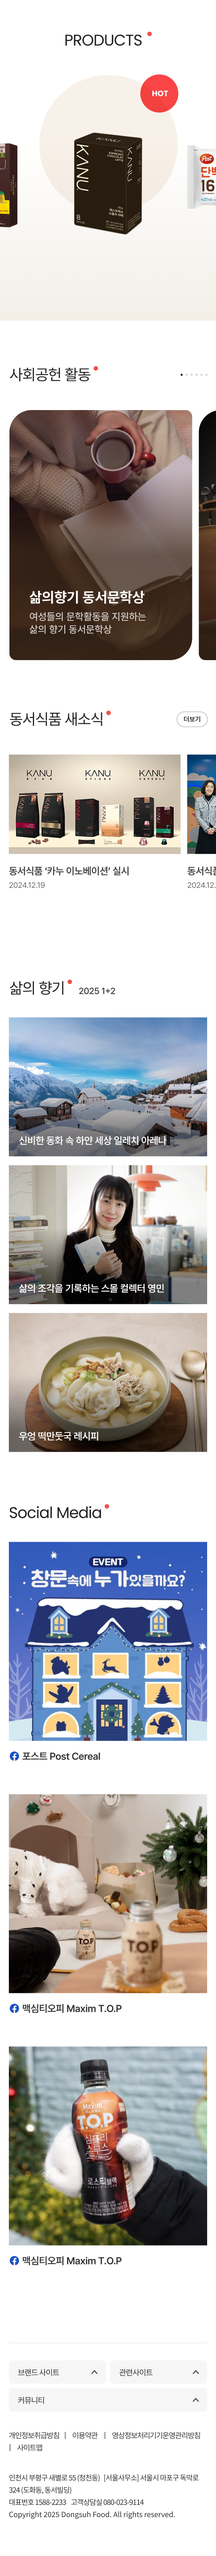
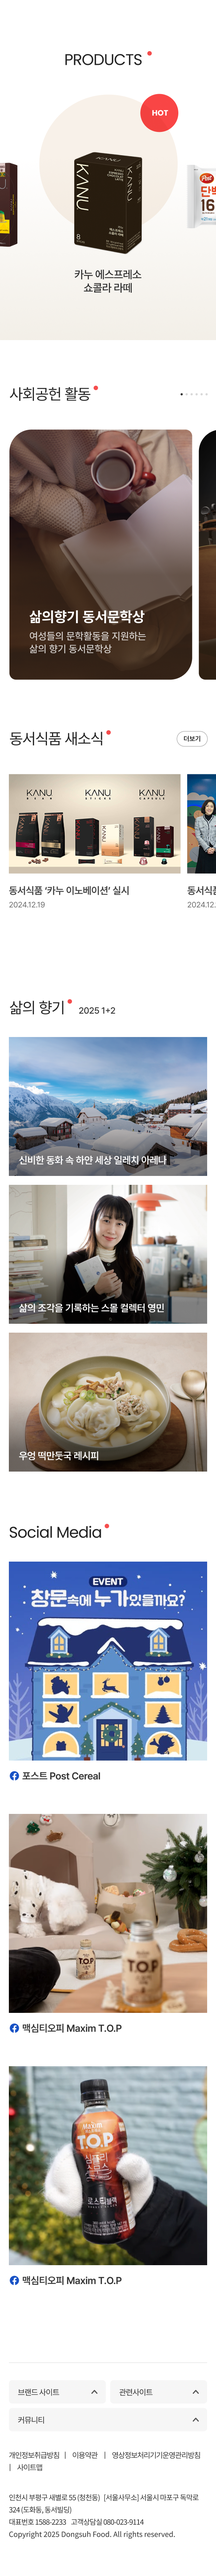
commit-0120-1

diff --git a/app/(dongsuh-2025)/dongsuh-draft-2025/page.tsx b/app/(dongsuh-2025)/dongsuh-draft-2025/page.tsx
@@ -8,21 +8,21 @@ export default function Home() {
         <div className="content-wrap">
 
           <div className="notice-banner">
-            본 디자인 시안은 세부 디자인, 인터액션 등이 완료되지 않은 중간 버전이며
-            시안 별 방향성 및 페이지 구성을 확인하기 위한 용도입니다.
+            본 디자인 시안은 세부 콘텐츠 디자인, 인터액션 등이 완료되지 않은 제안용도의 시안 입니다.<br />
+            홈 화면 중간의 제품소개 영역을 클릭하면 제품상세보기 화면으로 이동합니다.
           </div>
 
           <div className="content-block">
             <h3 className='block-title'>디자인 시안 공통 적용 사항</h3>
             <ul>
               <li>
-                <span>1. 웹접근성을 고려한 디자인 원칙 </span>
+                <span>1. 웹접근성을 고려한 디자인 준칙 적용</span>
               </li>
               <li>
                 <span>2. 반응형 구현을 고려한 레이아웃 디자인 </span>
               </li>
               <li>
-                <span>3. 부수적인 요소를 제외하고 간결한 Minimal 디자인 트렌드 반영 </span>
+                <span>3. 부수적인 그래픽 요소를 죄대한 배제하여 Minimal 디자인 트렌드 반영 </span>
               </li>
             </ul>
           </div>
@@ -31,17 +31,21 @@ export default function Home() {
             <h3 className='block-title'>Type-A</h3>
             <ul>
               <li>
-                <span>- 최근 트렌드인 Scroll Action 효과를 적용하여 동서식품 메세지를 강조</span>
+                <span>- 메가 트렌드인 Scroll Action 효과를 적용하여 동서식품 메세지를 강조</span>
               </li>
               <li>
-                <span>- Hero영역의 영상은 시즌별로 신규 제작되는 동서식품 CM 비디오를 업데이트하여 적용</span>
+                <span>- Hero영역의 영상은 시즌별로 신규 제작되는 동서식품 CM 비디오를 업데이트하여 적용. <br />
+                시즌감을 표현하면서 동서식품 브랜드이미지 강조 효과</span>
               </li>
               <li>
                 <span>- 삶의향기 매거진, SNS 콘텐츠 들을 배치하여 동서식품 관련 컨텐츠를 최대한 전달</span>
               </li>
             </ul>
-            <Link className='draft-link' href={"dongsuh-draft-2025/draft-a"} target="_blank">디자인시안 (Desktop 버전)</Link>
-            <Link className='draft-link' href={"dongsuh-draft-2025/draft-a-mo-frame"} target="_blank">디자인시안 (Mobile 버전)</Link>
+            <div className="link-wrap">
+              <Link className='draft-link' href={"dongsuh-draft-2025/draft-a"} target="_blank">디자인시안 (Desktop 버전)</Link>
+              <Link className='draft-link' href={"dongsuh-draft-2025/draft-a-mo-frame"} target="_blank">디자인시안 (Mobile 버전)</Link>
+            </div>
+            
           </div>
 
           <div className="content-block">
@@ -54,8 +58,10 @@ export default function Home() {
                 <span>- 제품, 브랜드 섹션을 우선 배치하여 사용자가 보다 제품과 브랜드에 집중하도록 함</span>
               </li>
             </ul>
-            <Link className='draft-link' href={"dongsuh-draft-2025/draft-b"} target="_blank">디자인시안 (Desktop 버전)</Link>
-            <Link className='draft-link' href={"dongsuh-draft-2025/draft-b-mo-frame"} target="_blank">디자인시안 (Mobile 버전)</Link>
+            <div className="link-wrap">
+              <Link className='draft-link' href={"dongsuh-draft-2025/draft-b"} target="_blank">디자인시안 (Desktop 버전)</Link>
+              <Link className='draft-link' href={"dongsuh-draft-2025/draft-b-mo-frame"} target="_blank">디자인시안 (Mobile 버전)</Link>
+            </div>
           </div>
 
         </div>

diff --git a/app/(dongsuh-2025)/styles/draft_index.css b/app/(dongsuh-2025)/styles/draft_index.css
@@ -5,19 +5,23 @@
     width:100%; max-width: 980px; margin: 0 auto;
     padding: 80px 0;
     >.notice-banner{
-      width:100%; background-color: #f5f5f5; padding: 16px;
-      margin: 24px 0;
+      width:100%; background-color:rgb(255, 228, 228); padding: 16px 24px;
+      margin: 24px 0; border-radius: 8px;
     }
     >.content-block{
       width:100%; padding: 40px 0;
       >.block-title{
-        font-size: 32px; font-weight: 500; margin-bottom: 24px;
+        font-size: 32px; font-weight: 500; margin-bottom: 24px; font-weight: 700;
+        letter-spacing: -0.02em;
       }
       .draft-link{
-        width: auto; border: 1px solid #999; padding: 12px 16px; border-radius: 6px; 
+        width: auto; border: 1px solid #999; padding: 20px 20px; border-radius: 6px; 
         display: block; background-color: #f5f5f5; font-weight: 700;
-        margin: 24px 0; text-align: center;
+        margin: 24px 0; text-align: center; width: 50%;
       }
+    }
+    .link-wrap{
+      width:100%; display:flex; gap: 16px;
     }
   }
 }

diff --git a/app/(dongsuh-2025)/dongsuh-draft-2025/draft-a-mo/page.tsx b/app/(dongsuh-2025)/dongsuh-draft-2025/draft-a-mo/page.tsx
@@ -67,7 +67,7 @@ export default function DraftBHome() {
 
         <div className="a-home-mo-full bg-white">
           <a href="/dongsuh-draft-2025/draft-a-depth-mo">
-            <Image src={'/dongsuh_2025/a_mo_full.png'} width={390} height={4543} alt=""></Image>
+            <Image src={'/dongsuh_2025/a_mo_full.png'} width={390} height={4635} alt="" className="full-img"></Image>
           </a>
         </div>
       </main>

diff --git a/app/(dongsuh-2025)/dongsuh-draft-2025/draft-b/page.tsx b/app/(dongsuh-2025)/dongsuh-draft-2025/draft-b/page.tsx
@@ -208,11 +208,10 @@ export default function DraftBHome() {
           <img src="/dongsuh_2025/draft_b/news_full.png" className="full-img" />
         </section>
         
-
       </main>
 
       <footer className="footer">
-        <img src="/dongsuh_2025/draft_b/footer.png" className="full-img" />
+        <img src="/dongsuh_2025/draft_b/footer_content.png" className="full-img" />
       </footer>
     </div>
       

diff --git a/app/(dongsuh-2025)/styles/draft_a_mo.css b/app/(dongsuh-2025)/styles/draft_a_mo.css
@@ -202,3 +202,9 @@ body{
     width: 1402px; height: 560px; flex-shrink:0; flex-grow:0; 
   }
 }
+
+.a-home-mo-full{
+  .full-img{
+    padding-top: 40px;
+  }
+}
